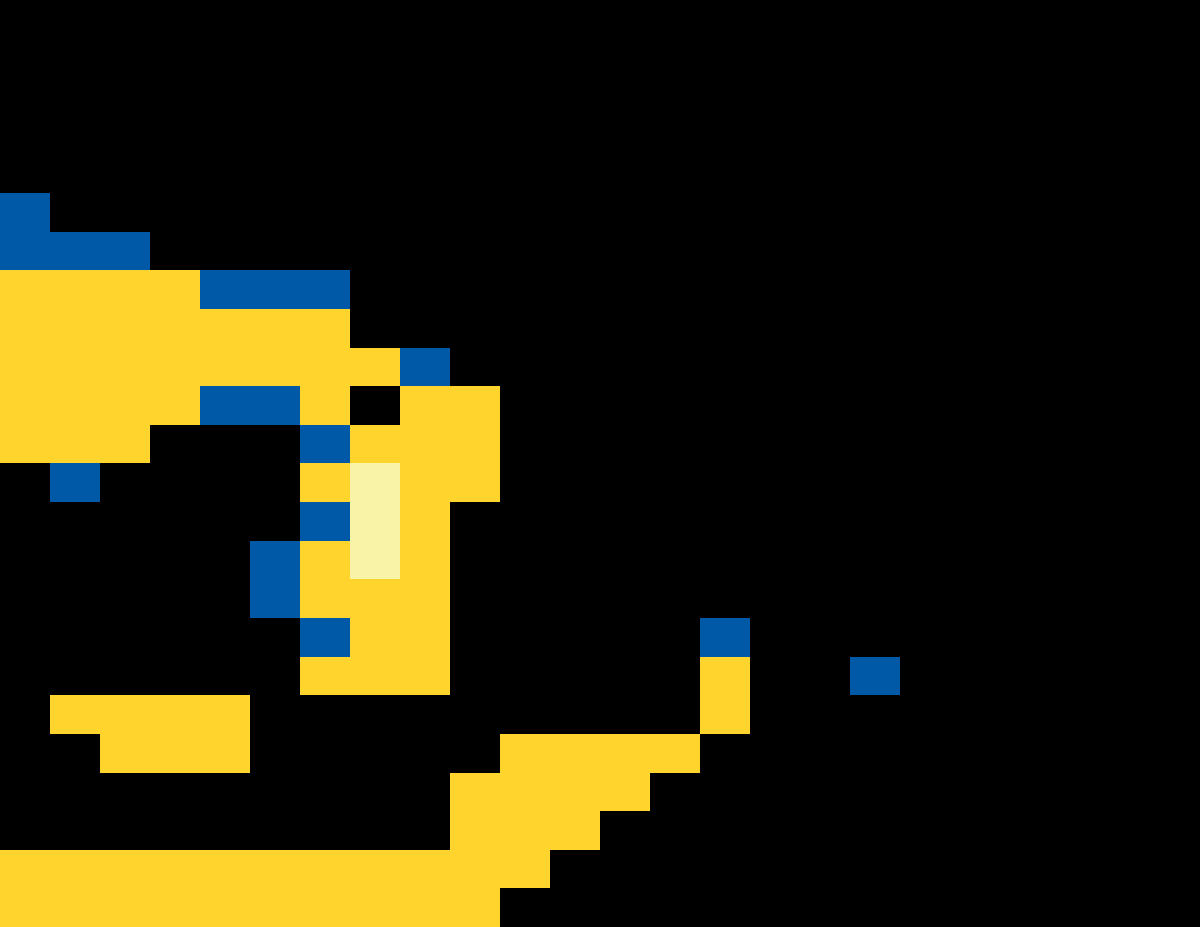
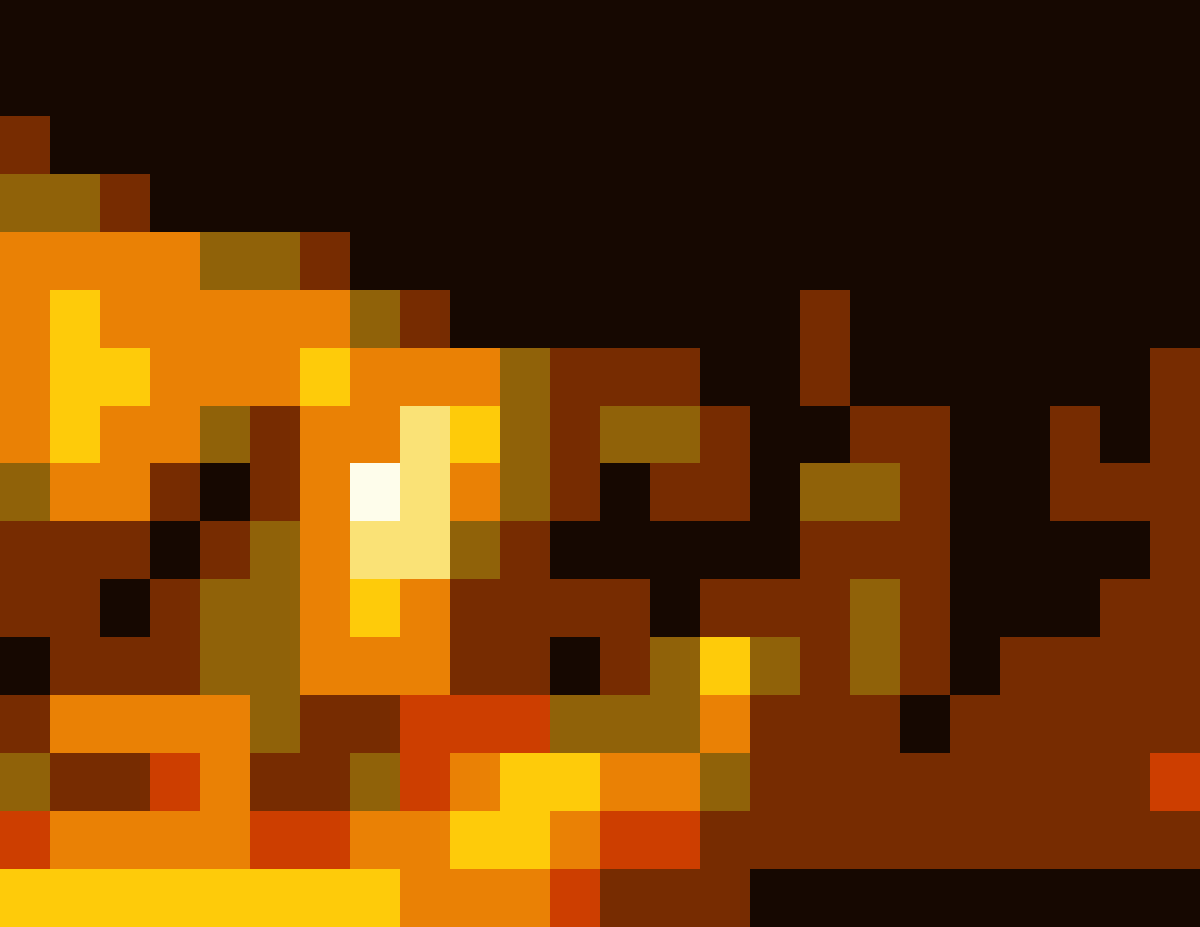
liking the results, plus lots of images

diff --git a/main.py b/main.py
@@ -1,11 +1,11 @@
 #!/usr/local/bin/python3
-from PIL import Image
+from PIL import Image, ImageEnhance
 import os
 import operator
 from collections import defaultdict
 import re
 import functools
-
+from haishoku.haishoku import Haishoku
 
 def makePalette(array_colors):
   # Also the number of colors:
@@ -49,24 +49,47 @@ def quantizetopalette(silf, palette, dither=False):
         return silf._makeself(im)
 
 def pixelate(pal):
-  print('pal: {}'.format(pal))
-  counter = 1
   for filename in os.listdir('images'):
     imgPath = os.path.join('images/',filename)
     img = Image.open(imgPath)
 
-    imgSmall = img.resize((24,24),resample=Image.BILINEAR)
+    # modify the image a bit and save a contrasted copy
+    contrast = ImageEnhance.Contrast(img)
+    contrast = contrast.enhance(2.0)
+    contrast = ImageEnhance.Color(contrast)
+    contrast = contrast.enhance(2.5)
+    contrast = contrast.resize((256,256),resample=Image.BILINEAR)
+    contrastFileName = "contrast_{}".format(filename)
+    contrastImgPath = os.path.join('contrast_images/',contrastFileName)
+    contrast.save(contrastImgPath, "PNG")
+    newContrastImg = Image.open(contrastImgPath)
 
+    # get palette
+    palette = Haishoku.getPalette(contrastImgPath)
+    print('palette: {}'.format(palette))
+
+    # change format of palette to remove percents
+    newPalette = []
+    for i in range(0,8):
+      for j in palette[i][1]:
+        newPalette.append(j)
+    print(newPalette)
+
+    # shrink image to create pixels
+    imgSmall = contrast.resize((24,16),resample=Image.BILINEAR)
+
+    # change color of the image
     img2 = Image.new('P', (16,16))
-    img2.putpalette(pal * 32)
+    img2.putpalette(newPalette * 32)
     img2 = quantizetopalette(imgSmall,img2,dither=False)
     if img2.mode != 'RGB':
       img2 = img2.convert('RGB')
 
+    # resize the image to original size
     result = img2.resize(img.size,Image.NEAREST)
 
+    # save the new image
     newImgFileName = "new_{}".format(filename)
-    counter += 1
     newImgPath = os.path.join('new_images/',newImgFileName)
     print('Saving new image: {}'.format(newImgPath))
     result.save(newImgPath, "PNG")
